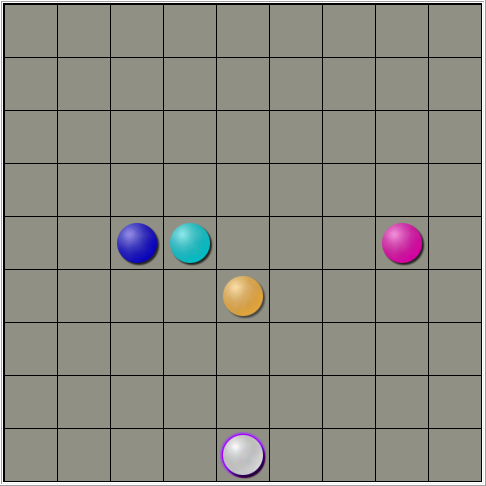
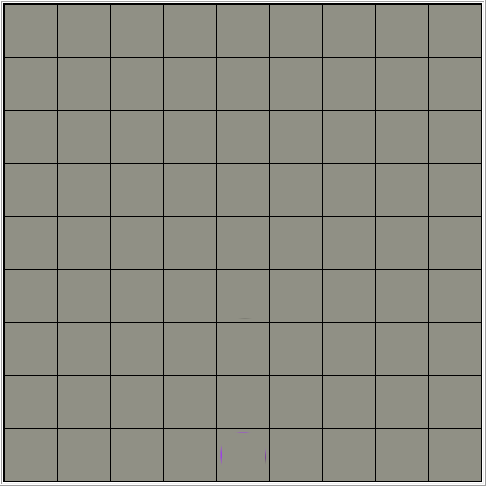
generating three chess  ok

diff --git a/one/src/myApp.js b/one/src/myApp.js
@@ -43,6 +43,7 @@ function Game(){
     
     this.logic=null;
     this.state=null; 
+    this.currentChessPos = null;
     return this;
 }
 
@@ -59,68 +60,114 @@ Game.prototype.genNextChess= function(){
         };
 
         for(var i=0; i<3;++i){
-            var idx = Math.floor(Math.random()* this.unsetPos.length);
+            var idx = Math.floor(Math.random()* (this.unsetPos.length-1));
             poses.push(this.chesses[this.unsetPos[idx].x][this.unsetPos[idx].y]);
+            console.log("idx:"+idx +", length:"+this.unsetPos.length);
             this.unsetPos[idx] = this.unsetPos.pop();
         }
         for (var i = 0; i <3; i++) {
-            this.chesses[poses[i].x][poses[i].y] =  Math.floor(Math.random()*this.CHESSCLASS);            
+            this.chesses[poses[i].x][poses[i].y].class =  Math.floor(Math.random()*this.CHESSCLASS+1);            
         };
         this.logic.afterGenChess(poses); 
     }
 
-//     //validate the input
-// Game.prototype.calcResult: function(pnt){
-//         var arrFinded = new Array;
+//判断指定位置是否有棋子
+Game.prototype.chessClass=function(c, r){
+    try{
+    return this.chesses[c][r].class;    
+    }
+    catch(e){
+        alert(e.stack);
+    }
+}
 
-//         //验证水平
-//         var hStart = pnt.x-5 <0 ? 0 : pnt.x-5;
-//         var hEnd = pnt.x + 5 > 8 ? 8 : pnt.x + 5;
+//设置当前的棋子
+Game.prototype.selectChess = function(c, r){
+    if (this.chesses[c][r].class ==0) 
+        return;
+    this.currentChessPos = this.chesses[c][r];
+    this.logic.onCurrentPosChanged(this.currentChessPos);
+}
 
-//         var hCnt = 0;
-//         var i = 0, j=0;
-//         for(i = pnt.x-1; i > 0; --i){
-//             if (chesses[i][pnt.y] != chesses[pnt.x][pnt.y]) {
-//                 break;
-//             }
-//             ++hCnt;
-//         }
-//         for(j=pnt.x+1; j<ROWCELLCOUNT;++j){
-//             if (chesses[j][pnt.y] != chesses[pnt.x][pnt.y]) {
-//                 break;
-//             }
-//             ++hCnt;
-//         }
-//         if (hCnt>4) { //水平OK
-//             for (var k = i+1; k < j; ++k) {
-//                 arrFinded.push({'x':k, 'y':pnt.y});
-//             }
-//         }
+Game.prototype.hasSelect = function(){
+    return this.currentChessPos != null;
+}
 
-//         //验证竖直        
-//         hCnt = 0;
-//         for(i = pnt.y -1; i>0; --j){
-//             if (chesses[pnt.x][i] != chesses[pnt.x][pnt.y]) {
-//                 break;
-//             }
-//             ++hCnt;
-//         }
-//         for(j=pnt.y+1; j<ROWCELLCOUNT;++j){
-//             if (chesses[pnt.x][j] != chesses[pnt.x][pnt.y]) {
-//                 break;
-//             }
-//             ++hCnt;
-//         }
-//         if (hCnt>4) { //水平OK
-//             for (var k = i+1; k < j; ++k) {
-//                 arrFinded.push({'x':pnt.x, 'y':k});
-//             }
-//         }
-//         ////////////////////////////////////////////////////        
-//         if (arrFinded.length>0) {
-//             logic.onHit(arrFinded);  // 命中时回调logic的接口 
-//         };
-//     }
+Game.prototype.moveChess = function(c, r){
+    if (this.currentChessPos != null) {
+        this.logic.onBeforeMoveChess(this.currentChessPos, this.chesses[c][r], function(){
+            this.chesses[c][r].class = this.chesses[this.currentChessPos.x][this.currentChessPos.y].class;
+            this.chesses[this.currentChessPos.x][this.currentChessPos.y].class = 0;
+            //从未设置棋子集合移出
+            for(var i = 0; i<this.unsetPos.length; ++i){
+                if (this.unsetPos[i].x == c && this.unsetPos[i].y == r) {
+                    this.unsetPos[i] = this.chesses[this.currentChessPos.x][this.currentChessPos.y];
+                    break;
+                };
+            }
+            //this.unsetPos.push(this.currentChessPos);
+            this.currentChessPos = null;
+            this.genNextChess();
+        });
+        
+    };
+
+}
+
+    //validate the input
+Game.prototype.calcResult = function(pnt){
+        var arrFinded = new Array;
+
+        //验证水平
+        var hStart = pnt.x-5 <0 ? 0 : pnt.x-5;
+        var hEnd = pnt.x + 5 > 8 ? 8 : pnt.x + 5;
+
+        var hCnt = 0;
+        var i = 0, j=0;
+        for(i = pnt.x-1; i > 0; --i){
+            if (chesses[i][pnt.y] != chesses[pnt.x][pnt.y]) {
+                break;
+            }
+            ++hCnt;
+        }
+        // for(j=pnt.x+1; j<ROWCELLCOUNT;++j){
+        //     if (chesses[j][pnt.y] != chesses[pnt.x][pnt.y]) {
+        //         break;
+        //     }
+        //     ++hCnt;
+        // }
+        // if (hCnt>4) { //水平OK
+        //     for (var k = i+1; k < j; ++k) {
+        //         arrFinded.push({'x':k, 'y':pnt.y});
+        //     }
+        // }
+
+        // //验证竖直        
+        // hCnt = 0;
+        // for(i = pnt.y -1; i>0; --j){
+        //     if (chesses[pnt.x][i] != chesses[pnt.x][pnt.y]) {
+        //         break;
+        //     }
+        //     ++hCnt;
+        // }
+        // for(j=pnt.y+1; j<ROWCELLCOUNT;++j){
+        //     if (chesses[pnt.x][j] != chesses[pnt.x][pnt.y]) {
+        //         break;
+        //     }
+        //     ++hCnt;
+        // }
+        // if (hCnt>4) { //水平OK
+        //     for (var k = i+1; k < j; ++k) {
+        //         arrFinded.push({'x':pnt.x, 'y':k});
+        //     }
+        // }
+        // ////////////////////////////////////////////////////        
+        // if (arrFinded.length>0) {
+        //     logic.onHit(arrFinded);  // 命中时回调logic的接口 
+        // };
+    }
+
+var CELLSIZE = 53;
 
 var BallLayer = cc.Layer.extend({
     ball:null, 
@@ -147,18 +194,35 @@ var BallLayer = cc.Layer.extend({
     },
 
     onTouchesMoved : function(pnt){
-        console.log('onTouchesMoved' + JSON.stringify(pnt));
+//        console.log('onTouchesMoved' + JSON.stringify(pnt));
     },
 
     onTouchesBegan:function(pnt){
-        console.log('onTouchesBegan');
+  //      console.log('onTouchesBegan');
+        
+        var bPos = this.posToChessBoard(pnt[0].getLocation().x, pnt[0].getLocation().y);
+        if (bPos.c <0 || bPos.c >8 || bPos.r<0 || bPos.r >8) {
+            return;
+        };
+        if (this.game.chessClass(bPos.c, bPos.r) != 0) {
+            this.game.selectChess(bPos.c, bPos.r);
+        }
+        else{
+            if (this.game.hasSelect()) {  //移动
+                this.game.moveChess(bPos.c, bPos.r);
+            };
+        }
+
+        console.log('onTouchesMoved' + bPos.r +" c: "+ bPos.r);
     },
     onTouchesEnded:function(pnt){
-        console.log('onTouchesEnded');
-        var action = cc.MoveTo.create(0.5, pnt[0].getLocation(), function(){
-            this.ball.setPosition(pnt[0].getLocation());
-        });
-        this.ball.runAction(action);        
+    //    console.log('onTouchesEnded');
+        // var action = cc.MoveTo.create(0.5, pnt[0].getLocation(), function(){
+        //     this.ball.setPosition(pnt[0].getLocation());
+        // });
+        // this.ball.runAction(action);    
+
+
     },
 
     // logic interface
@@ -166,11 +230,33 @@ var BallLayer = cc.Layer.extend({
         for (var i = 0; i < poses.length; i++) {
             poses[i].data = cc.LabelTTF.create(""+poses[i].class, "Impact", 38);
         // position the label on the center of the screen
-        poses[i].data.setPosition(cc.p(50* poses[i].x, 50* poses[i].y));
+        poses[i].data.setPosition(cc.p(53* poses[i].x+26, 53* poses[i].y+26));
         // add the label as a child to this layer
         this.addChild(poses[i].data, 5);
         };
-    }
+    },
+
+    onCurrentPosChanged:function(){
+
+    },
+
+    onBeforeMoveChess:function(chessOld, chessNew, callback){        
+        var action = cc.MoveTo.create(0.5, cc.p(chessNew.x*53 +26, chessNew.y*53+26));
+        chessOld.data.runAction(action);  
+        chessNew.data = chessOld.data;
+        chessOld.data = null;
+        callback.call(this.game);
+    },
+
+    //helper function
+    posToChessBoard: function(x, y){
+        var boardPos = new Object;
+        boardPos.c = Math.floor(x / CELLSIZE);
+        boardPos.r = Math.floor(y / CELLSIZE);
+        return boardPos;
+    },
+
+
 
 });
 

diff --git a/one/main.js b/one/main.js
@@ -39,8 +39,8 @@ var cocos2dApp = cc.Application.extend({
         var director = cc.Director.getInstance();
 
         var screenSize = cc.EGLView.getInstance().getFrameSize();
-        var resourceSize = cc.size(450, 450);
-        var designSize = cc.size(450, 450);
+        var resourceSize = cc.size(485, 485);
+        var designSize = cc.size(485, 485);
 
         var searchPaths = [];
         var resDirOrders = [];
